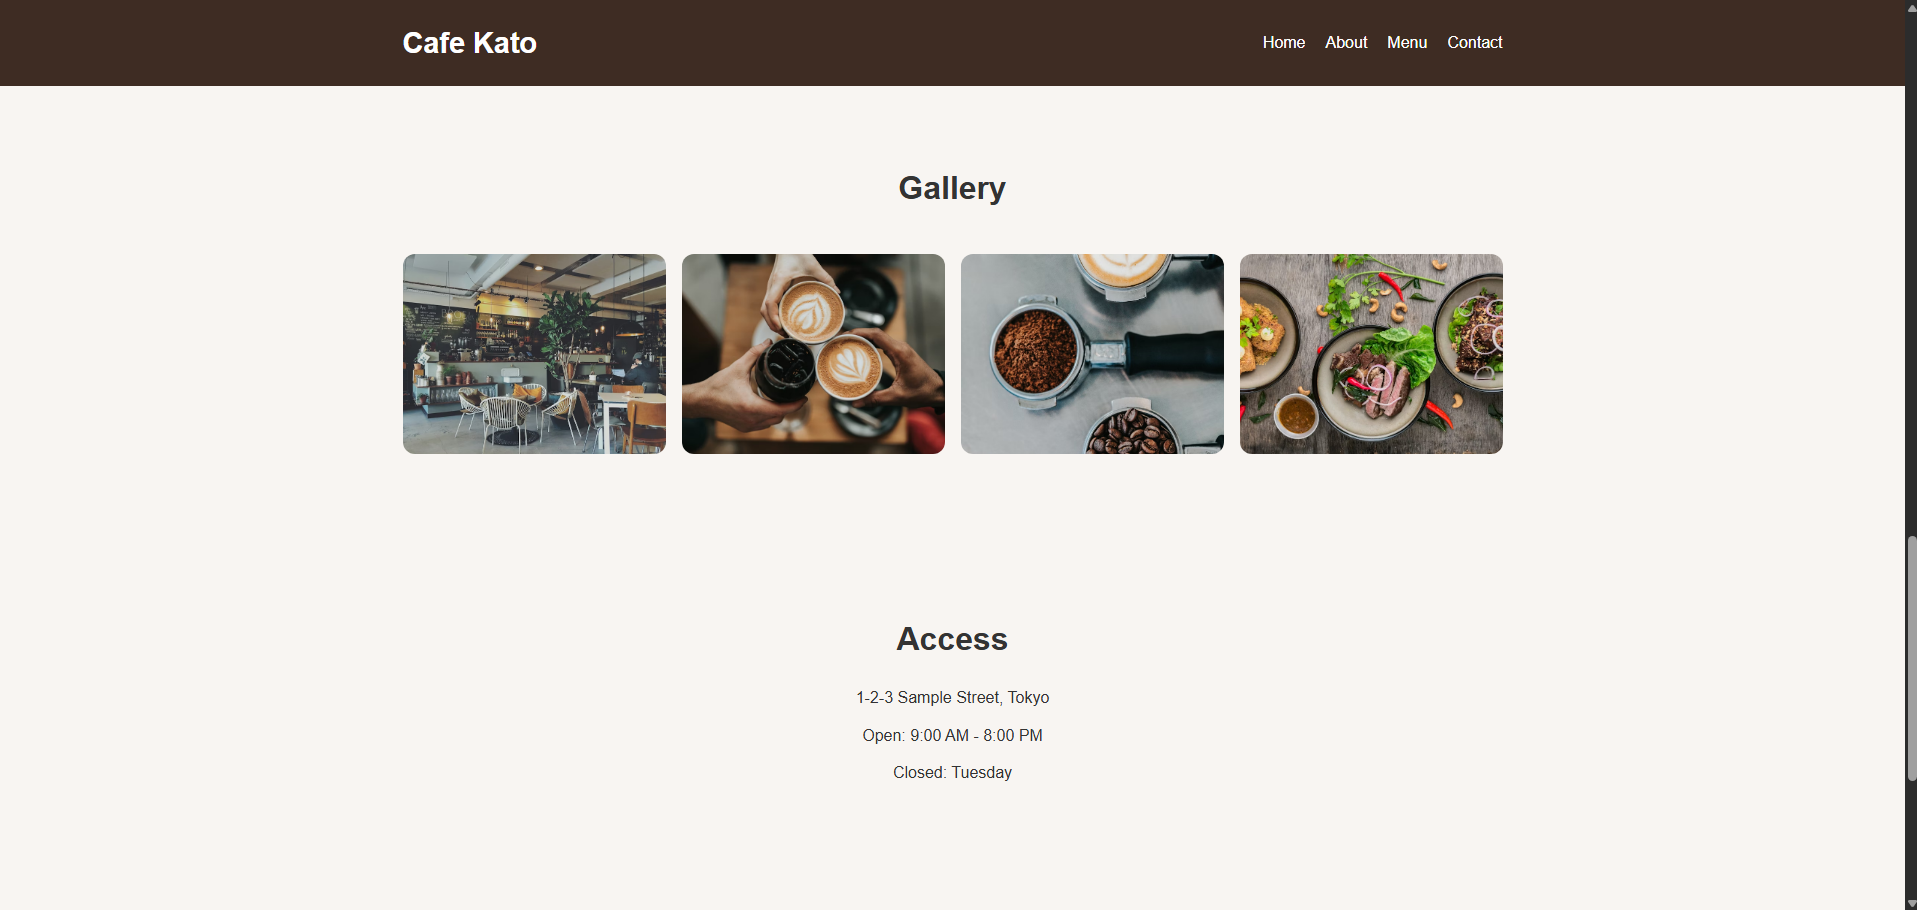
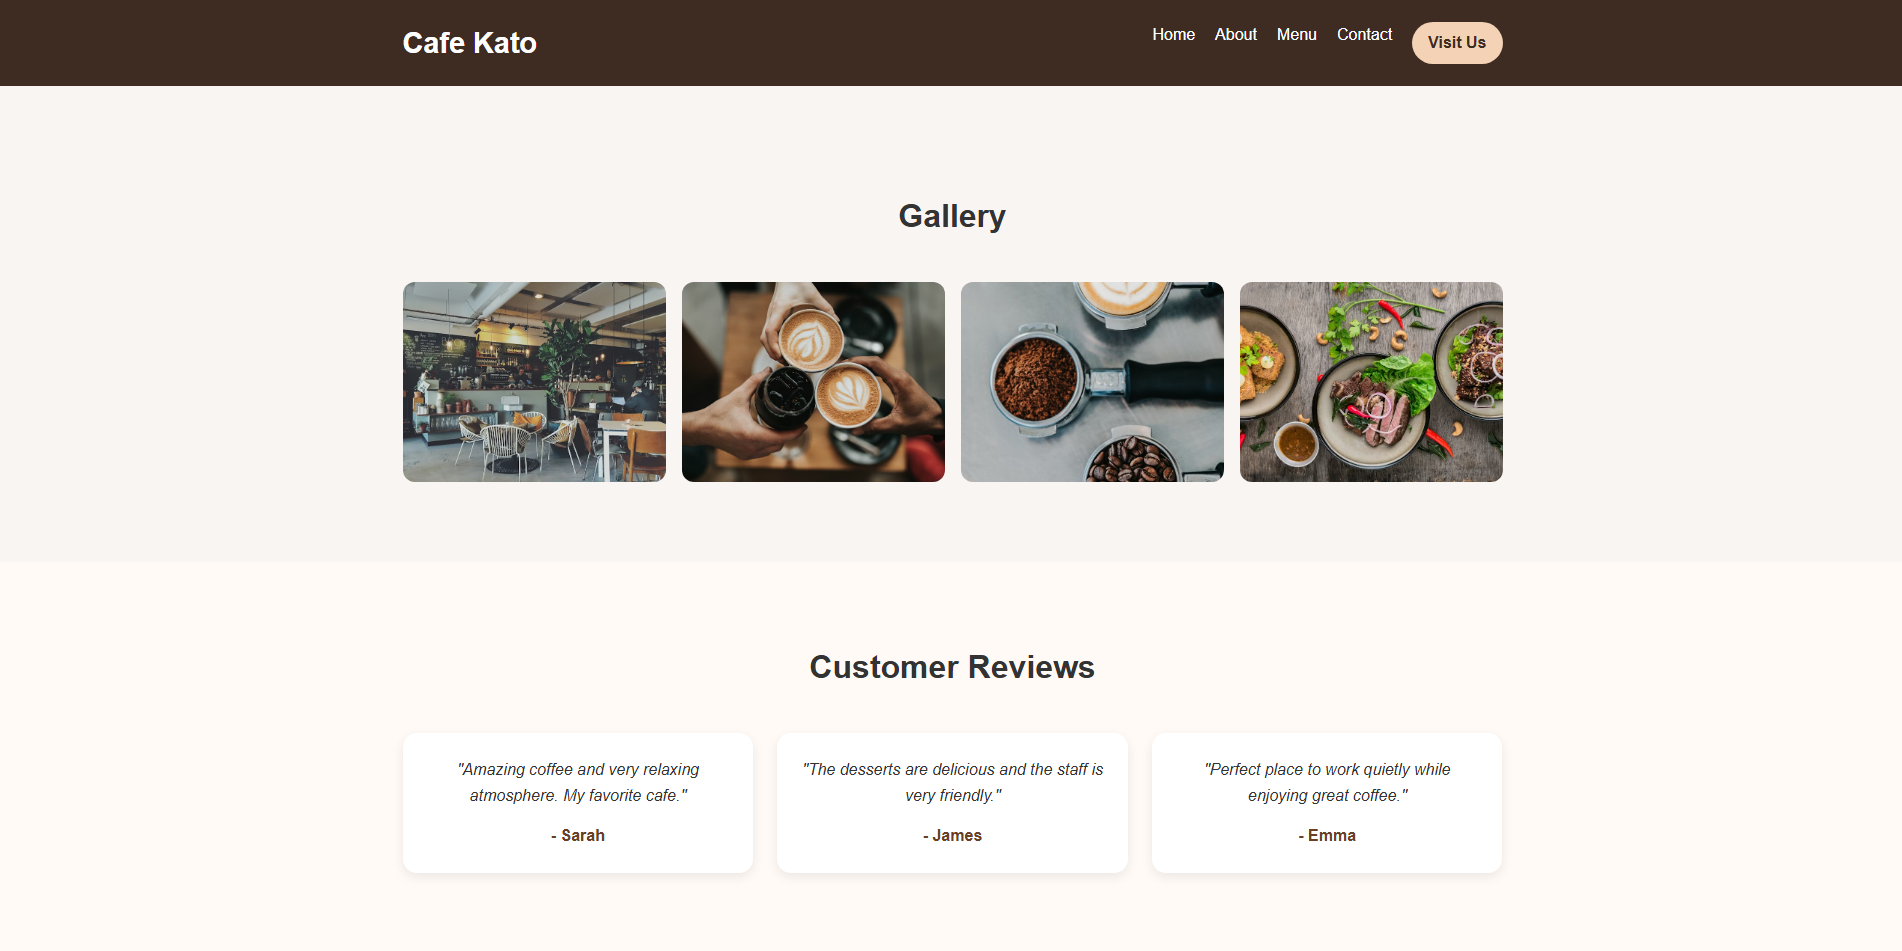
update landing page

diff --git a/style.css b/style.css
@@ -59,6 +59,19 @@ nav a:hover {
     color: #f3d2b6;
 }
 
+.nav-btn {
+    background: #f3d2b6;
+    color: #3e2c23;
+    padding: 8px 16px;
+    border-radius: 999px;
+    font-weight: bold;
+}
+
+.nav-btn:hover {
+    background: #ffffff;
+    color: #3e2c23;
+}
+
 .hero {
     background: linear-gradient(rgba(0, 0, 0, 0.35), rgba(0, 0, 0, 0.35)),
         url("https://images.unsplash.com/photo-1509042239860-f550ce710b93?auto=format&fit=crop&w=1400&q=80")
@@ -71,7 +84,7 @@ nav a:hover {
 }
 
 .hero-content {
-    max-width: 700px;
+    max-width: 800px;
 }
 
 .subtitle {
@@ -82,7 +95,7 @@ nav a:hover {
 }
 
 .hero h2 {
-    font-size: 3rem;
+    font-size: 2.7rem;
     margin-bottom: 20px;
 }
 
@@ -104,9 +117,6 @@ nav a:hover {
 
 .btn:hover {
     background: #5a3420;
-}
-
-.btn:hover {
     opacity: 0.85;
     transform: translateY(-2px);
 }
@@ -180,11 +190,93 @@ section h2 {
     transform: scale(1.05);
 }
 
-footer {
+.testimonials {
+    background: #fffaf5;
+}
+
+.testimonial-grid {
+    display: grid;
+    grid-template-columns: repeat(3, 1fr);
+    gap: 24px;
+    margin-top: 40px;
+}
+
+.testimonial-card {
+    background: white;
+    padding: 24px;
+    border-radius: 14px;
+    box-shadow: 0 4px 12px rgba(0, 0, 0, 0.08);
     text-align: center;
-    padding: 20px;
+}
+
+.testimonial-card p {
+    margin-bottom: 15px;
+    font-style: italic;
+}
+
+.testimonial-card h4 {
+    color: #6b3e26;
+}
+
+.contact {
+    background: #f8f5f2;
+}
+
+.reservation-form {
+    max-width: 600px;
+    margin: 40px auto 0;
+    display: flex;
+    flex-direction: column;
+    gap: 20px;
+}
+
+.reservation-form input,
+.reservation-form textarea {
+    padding: 14px;
+    border: 1px solid #ddd;
+    border-radius: 8px;
+    font-size: 1rem;
+}
+
+.reservation-form textarea {
+    min-height: 120px;
+    resize: none;
+}
+
+.reservation-form button {
+    background: #6b3e26;
+    color: white;
+    border: none;
+    padding: 14px;
+    border-radius: 8px;
+    cursor: pointer;
+    font-weight: bold;
+    transition: 0.3s;
+}
+
+.reservation-form button:hover {
+    background: #5a3420;
+}
+
+footer {
+    padding: 24px 0;
     background: #3e2c23;
     color: white;
+}
+
+.footer-container {
+    display: flex;
+    justify-content: space-between;
+    align-items: center;
+}
+
+.footer-links {
+    display: flex;
+    gap: 20px;
+}
+
+.footer-links a:hover {
+    color: #f3d2b6;
 }
 
 @media (max-width: 768px) {
@@ -212,7 +304,8 @@ footer {
     }
 
     .menu-grid,
-    .features-grid {
+    .features-grid,
+    .testimonial-grid {
         grid-template-columns: 1fr;
     }
 
@@ -222,5 +315,11 @@ footer {
 
     section {
         padding: 60px 0;
+    }
+
+    .footer-container {
+        flex-direction: column;
+        gap: 16px;
+        text-align: center;
     }
 }

diff --git a/index.html b/index.html
@@ -16,6 +16,7 @@
                 <a href="#about">About</a>
                 <a href="#menu">Menu</a>
                 <a href="#contact">Contact</a>
+                <a href="#access" class="nav-btn">Visit Us</a>
             </nav>
         </div>
     </header>
@@ -38,7 +39,7 @@
             <p> 
                 Cafe Kato is a small neighborhood cafe focused on quality coffee
                 and a relaxing environment. We carefully select our beans and
-                prepare eace drink with attention to detail.
+                prepare each drink with attention to detail.
 
                 Whether you want to work quietly, meet friends, or simply enjoy
                 a peaceful moment, our cafe is the perfect place for you.
@@ -113,7 +114,36 @@
         </div>
     </section>
 
-    <section class="access">
+    <section class="testimonials">
+        <div class="container">
+            <h2>Customer Reviews</h2>
+
+            <div class="testimonial-grid">
+                <div class="testimonial-card">
+                    <p>
+                        "Amazing coffee and very relaxing atmosphere. My favorite cafe."
+                    </p>
+                    <h4>- Sarah</h4>
+                </div>
+
+                <div class="testimonial-card">
+                    <p>
+                        "The desserts are delicious and the staff is very friendly."
+                    </p>
+                    <h4>- James</h4>
+                </div>
+
+                <div class="testimonial-card">
+                    <p>
+                        "Perfect place to work quietly while enjoying great coffee."
+                    </p>
+                    <h4>- Emma</h4>
+                </div>
+            </div>
+        </div>
+    </section>
+
+    <section id="access" class="access">
         <div class="container">
             <h2>Access</h2>
             <p>1-2-3 Sample Street, Tokyo</p>
@@ -124,16 +154,30 @@
 
     <section id="contact" class="contact">
         <div class="container">
-            <h2>Contact</h2>
-            <p>Email: [email redacted]</p>
-            <p>Phone: 03-1234-5678</p>
-            <p>Open: 9:00 - 20:00</p>
-            <p>Closed: Tuesday</p>
+            <h2>Reservation</h2>
+
+            <form class="reservation-form">
+                <input type="text" placeholder="Your Name">
+                <input type="email" placeholder="Your Email">
+                <input type="date">
+                <textarea placeholder="Special Request"></textarea>
+
+                <button type="submit">Book Now</button>
+            </form>
         </div>
     </section>
 
     <footer>
-        <p>© 2026 Cafe Kato. All rights reserved.</p>
+        <div class="container footer-container">
+            <p>© 2026 Cafe Kato. All rights reserved.</p>
+
+            <div class="footer-links">
+                <a href="#hero">Home</a>
+                <a href="#about">About</a>
+                <a href="#menu">Menu</a>
+                <a href="#contact">Reservation</a>
+            </div>
+        </div>
     </footer>
 
 

diff --git a/README.md b/README.md
@@ -1,29 +1,28 @@
-☕ Cafe Kato Landing Page
+# Cafe Landing Page
 
-A responsive landing page for a cafe built with HTML and CSS.
+A responsive cafe landing page built with HTML and CSS.
 
-🔗 Live Demo
-
+## Live Demo
 https://kkato0219.github.io/cafe-landing-page/
 
-📸 Screenshots
-![Hero Section](assets/hero.png)
-![Menu Section](assets/menu.png)
-![Gallery Section](assets/gallery.png)
-🚀 Features
-Responsive design (mobile-friendly)
-Clean and modern layout
-Smooth scrolling navigation
-Hero section with background image
-Menu cards layout
-Features section (Why Choose Us)
-Image gallery with hover effect
-Contact and access section
-🛠️ Tech Stack
-HTML
-CSS (Flexbox & Grid)
-💡 What I focused on
-Building a clean and user-friendly landing page layout
-Making the design responsive for different screen sizes
-Creating reusable sections (cards, grid layout)
-Improving UI with spacing, shadows, and hover effects
+## Features
+- Responsive navigation
+- Hero section
+- About section
+- Menu section
+- Features section
+- Gallery section
+- Customer testimonials
+- Reservation form
+- Access section
+- Updated footer navigation
+- Mobile responsive design
+
+## Technologies Used
+- HTML
+- CSS
+
+## Screenshot
+![hero section](assets/hero.png)
+![menu section](assets/hero.png)
+![gallery section](assets/gallery.png)